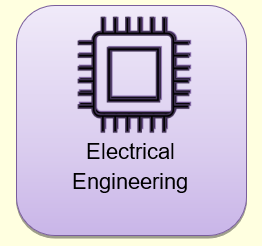
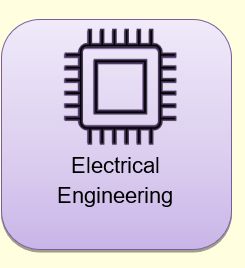
Add files via upload

diff --git a/index.htm b/index.htm
@@ -25,9 +25,9 @@ w\:* {behavior:url(#default#VML);}
   <o:Template>Normal</o:Template>
   <o:LastAuthor>Isabelle Heier</o:LastAuthor>
   <o:Revision>2</o:Revision>
-  <o:TotalTime>612</o:TotalTime>
-  <o:Created>2020-08-15T17:00:00Z</o:Created>
-  <o:LastSaved>2020-08-15T17:00:00Z</o:LastSaved>
+  <o:TotalTime>615</o:TotalTime>
+  <o:Created>2020-08-15T17:06:00Z</o:Created>
+  <o:LastSaved>2020-08-15T17:06:00Z</o:LastSaved>
   <o:Pages>1</o:Pages>
   <o:Words>100</o:Words>
   <o:Characters>570</o:Characters>
@@ -1057,14 +1057,14 @@ mso-fareast-font-family:"Helvetica Neue";mso-bidi-font-family:"Helvetica Neue"'>
   <p class=MsoNormal align=center style='text-align:center;line-height:normal'><span
   lang=EN style='font-size:13.0pt;font-family:"Helvetica Neue";mso-fareast-font-family:
   "Helvetica Neue";mso-bidi-font-family:"Helvetica Neue";mso-no-proof:yes'><!--[if gte vml 1]><v:shape
-   id="Picture_x0020_7" o:spid="_x0000_i1026" type="#_x0000_t75" alt="A close up of a device&#10;&#10;Description automatically generated"
+   id="Picture_x0020_3" o:spid="_x0000_i1026" type="#_x0000_t75" alt="A close up of a device&#10;&#10;Description automatically generated"
    style='width:181.5pt;height:180pt;visibility:visible;mso-wrap-style:square'>
    <v:imagedata src="index_files/image009.png" o:title="A close up of a device&#10;&#10;Description automatically generated"
-    croptop="266f" cropbottom="1331f" cropleft="2752f" cropright="2252f"/>
+    croptop="3913f" cropbottom="2919f" cropleft="-1072f" cropright="1854f"/>
   </v:shape><![endif]--><![if !vml]><img width=242 height=240
   src="index_files/image010.gif"
   alt="A close up of a device&#10;&#10;Description automatically generated"
-  v:shapes="Picture_x0020_7"><![endif]></span><span lang=EN style='font-size:
+  v:shapes="Picture_x0020_3"><![endif]></span><span lang=EN style='font-size:
   13.0pt;font-family:"Helvetica Neue";mso-fareast-font-family:"Helvetica Neue";
   mso-bidi-font-family:"Helvetica Neue"'><o:p></o:p></span></p>
   </td>
@@ -1118,7 +1118,7 @@ mso-bidi-font-family:"Helvetica Neue"'><o:p>&nbsp;</o:p></span></p>
 
 <p class=MsoNormal><span lang=EN style='font-size:9.0pt;line-height:115%;
 font-family:"Helvetica Neue";mso-fareast-font-family:"Helvetica Neue";
-mso-bidi-font-family:"Helvetica Neue"'>Updated: 8/15/2020 10:00<o:p></o:p></span></p>
+mso-bidi-font-family:"Helvetica Neue"'>Updated: 8/15/2020 10:10<o:p></o:p></span></p>
 
 </div>
 
